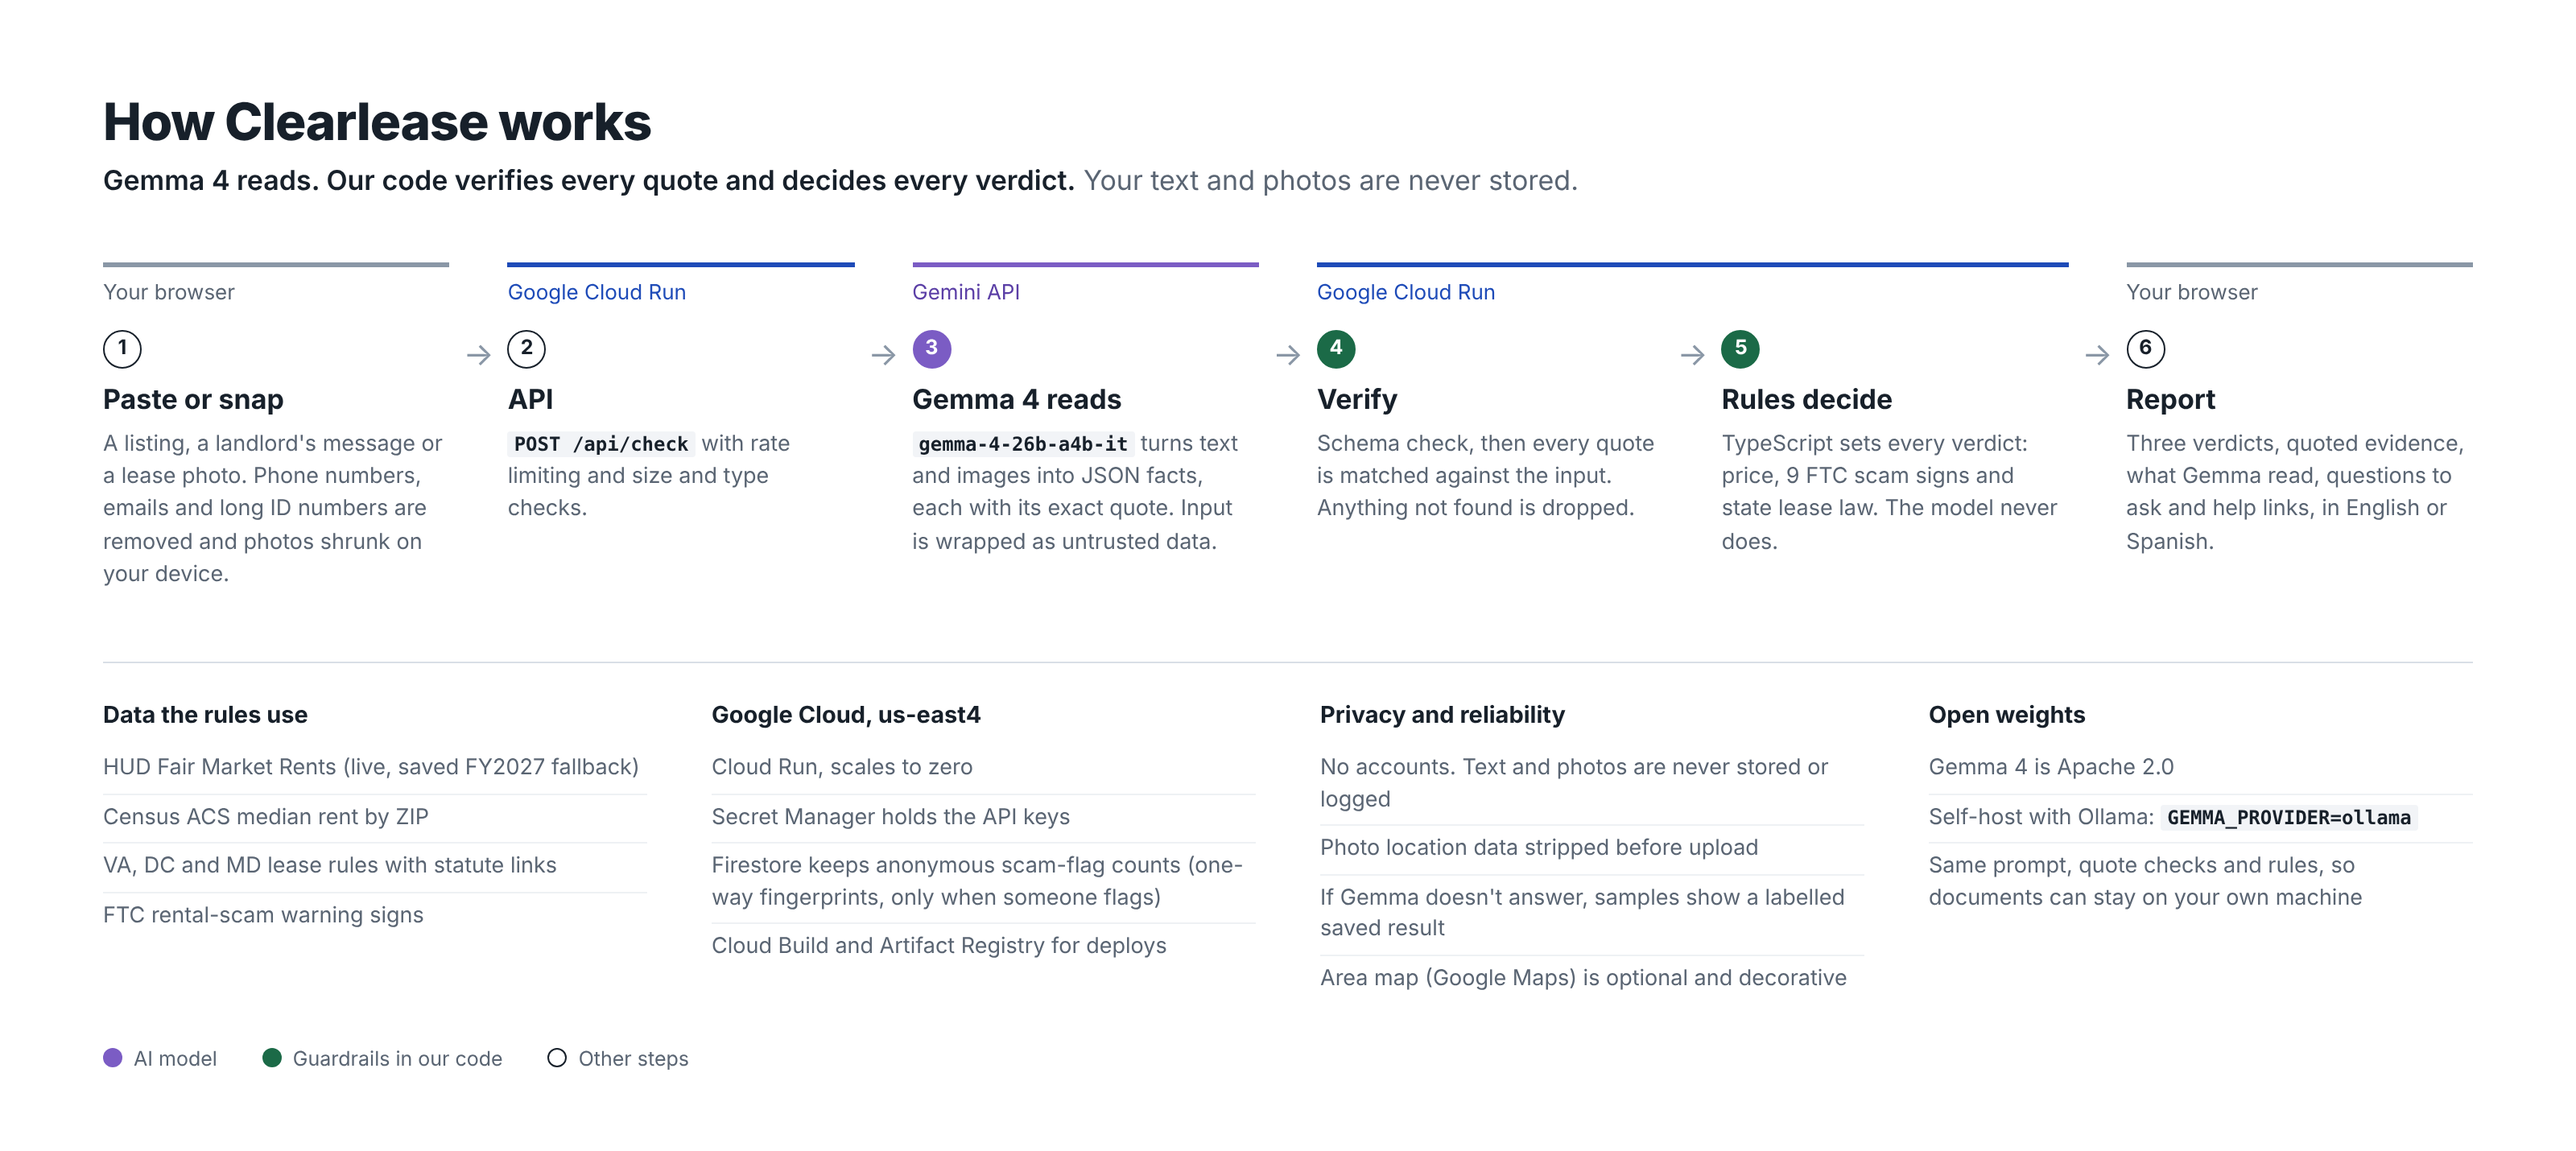
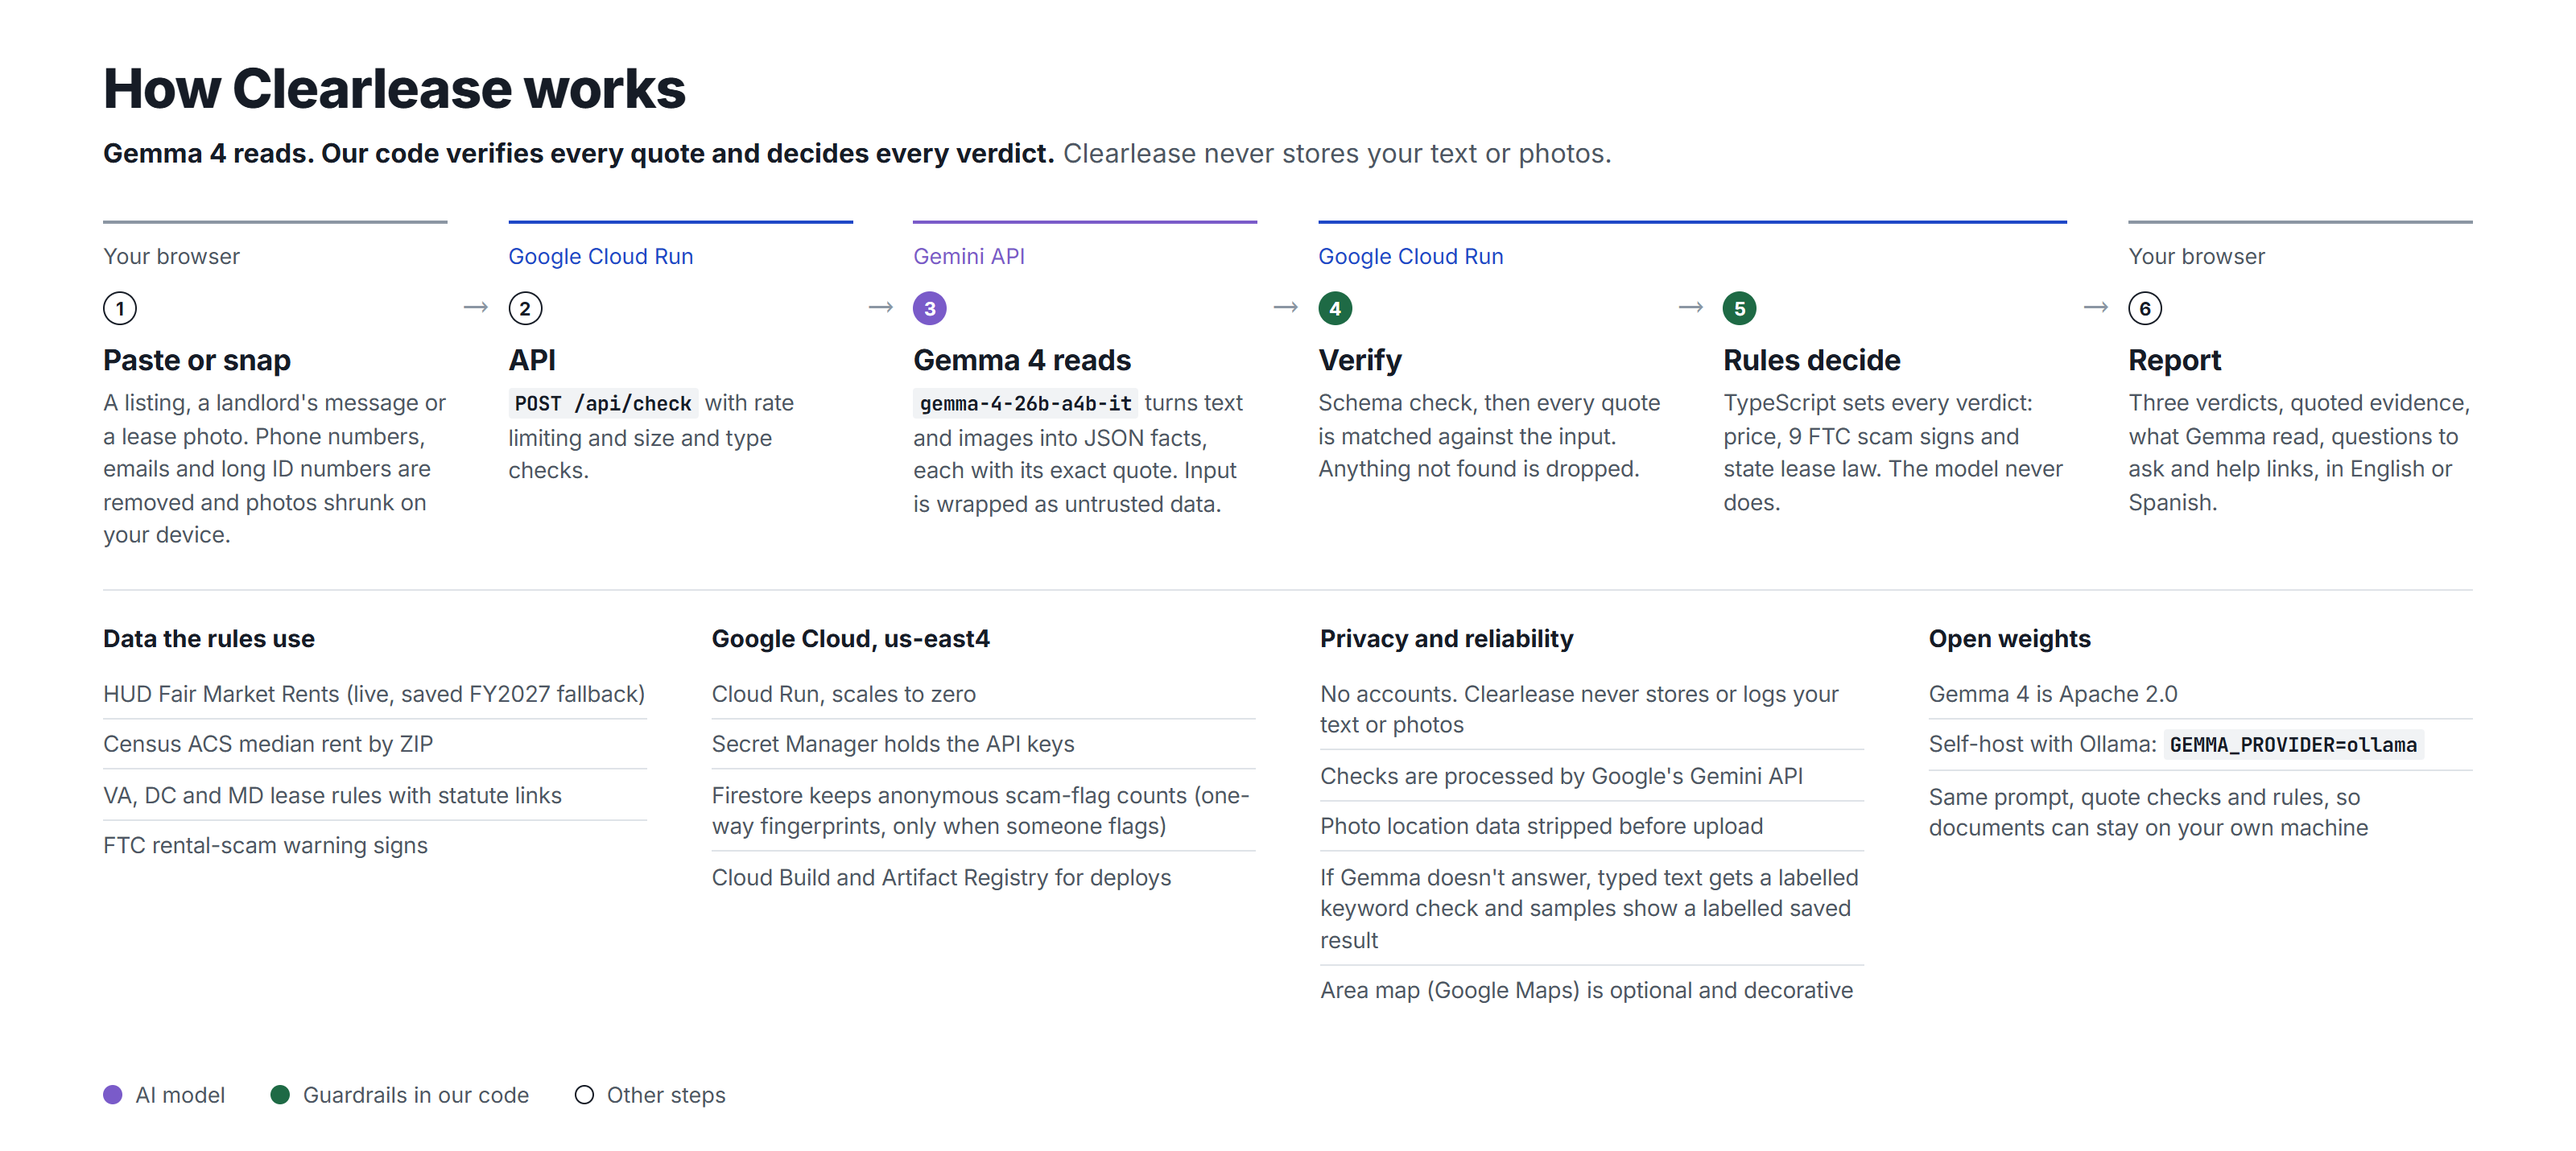
docs: architecture diagram from source, README polish
Part A (diagram):
- Verified "Photo location data stripped before upload": a JPEG with EXIF
  GPS tags uploaded through the app's own path (prepareImage canvas
  re-encode) reaches /api/check with no EXIF/GPS (only an ICC profile)
- New subtitle; privacy column: Clearlease never stores or logs your text
  or photos, checks are processed by Google's Gemini API, keyword check +
  labelled saved result when Gemma doesn't answer
- The PNG had no source; added docs/diagram/architecture.html and
  scripts/render-architecture.mjs (same 3200x1430 size and style)

Part B (README):
- 160 unit tests (README, docs/setup.md)
- Drop the duplicate free-tier sentence from "Nothing stored"
- Injection detector also catches fake role/chat-template markup and the
  banner shows the whole injected line
- npm ci in "Run it locally"; repo map lists docs/diagram/

diff --git a/docs/diagram/architecture.html b/docs/diagram/architecture.html
@@ -1,0 +1,114 @@
+<!doctype html>
+<!-- Source of docs/architecture.png. Render with: node scripts/render-architecture.mjs (1600×715 CSS px at 2×). -->
+<html lang="en">
+<head>
+<meta charset="utf-8">
+<title>How Clearlease works</title>
+<link rel="preconnect" href="https://fonts.googleapis.com">
+<link href="https://fonts.googleapis.com/css2?family=Inter:wght@400;600;700;800&family=JetBrains+Mono:wght@700&display=block" rel="stylesheet">
+<style>
+  :root {
+    --ink: #161c26;
+    --soft: #4d5663;
+    --rule: #dfe3e8;
+    --grey: #8b96a3;
+    --blue: #1f48c7;
+    --purple: #7a5bc9;
+    --green: #1e6a45;
+  }
+  * { box-sizing: border-box; margin: 0; padding: 0; }
+  html, body { width: 1600px; height: 715px; background: #fff; }
+  body { font-family: Inter, system-ui, sans-serif; color: var(--ink); padding: 36px 64px 0; -webkit-font-smoothing: antialiased; }
+  h1 { font-size: 34px; font-weight: 800; letter-spacing: -0.02em; line-height: 1.1; }
+  .sub { margin-top: 12px; font-size: 16.5px; color: var(--soft); }
+  .sub b { color: var(--ink); font-weight: 700; }
+  code { font-family: "JetBrains Mono", ui-monospace, monospace; font-weight: 700; font-size: 12.5px; color: var(--ink); background: #f1f3f5; padding: 1px 4px; border-radius: 2px; }
+
+  .steps { margin-top: 32px; display: grid; grid-template-columns: repeat(6, 214px); column-gap: 37.6px; position: relative; }
+  .zone { border-top: 2.5px solid var(--grey); padding-top: 12px; font-size: 13.5px; color: var(--soft); }
+  .zone.blue { border-color: var(--blue); color: var(--blue); }
+  .zone.purple { border-color: var(--purple); color: var(--purple); }
+  .zone.span2 { grid-column: span 2; }
+  .step { position: relative; padding-top: 14px; }
+  .step + .step::before { content: "→"; position: absolute; left: -30px; top: 11px; color: var(--grey); font-size: 22px; line-height: 1; }
+  .num { width: 21px; height: 21px; border-radius: 50%; border: 1.5px solid var(--ink); display: grid; place-items: center; font-size: 11.5px; font-weight: 700; }
+  .num.ai { background: var(--purple); border-color: var(--purple); color: #fff; }
+  .num.guard { background: var(--green); border-color: var(--green); color: #fff; }
+  .step h2 { margin-top: 11px; font-size: 18px; font-weight: 700; letter-spacing: -0.01em; }
+  .step p { margin-top: 6px; font-size: 14px; line-height: 20.4px; letter-spacing: -0.012em; color: var(--soft); }
+
+  .notes { margin-top: 24px; border-top: 1px solid var(--rule); padding-top: 20px; display: grid; grid-template-columns: repeat(4, 338px); column-gap: 40px; }
+  .notes h3 { font-size: 15px; font-weight: 700; margin-bottom: 9px; }
+  .notes li { list-style: none; font-size: 14px; line-height: 19.5px; letter-spacing: -0.012em; color: var(--soft); padding: 5.5px 0; border-bottom: 1px solid var(--rule); }
+  .notes li:last-child { border-bottom: 0; }
+
+  .legend { position: absolute; left: 64px; top: 672px; display: flex; gap: 28px; font-size: 13.5px; color: var(--soft); align-items: center; }
+  .legend span { display: inline-flex; align-items: center; gap: 8px; }
+  .dot { width: 12px; height: 12px; border-radius: 50%; display: inline-block; }
+</style>
+</head>
+<body>
+  <h1>How Clearlease works</h1>
+  <p class="sub"><b>Gemma 4 reads. Our code verifies every quote and decides every verdict.</b> Clearlease never stores your text or photos.</p>
+
+  <div class="steps">
+    <div class="zone">Your browser</div>
+    <div class="zone blue">Google Cloud Run</div>
+    <div class="zone purple">Gemini API</div>
+    <div class="zone blue span2">Google Cloud Run</div>
+    <div class="zone">Your browser</div>
+
+    <div class="step"><div class="num">1</div><h2>Paste or snap</h2><p>A listing, a landlord's message or a lease photo. Phone numbers, emails and long ID numbers are removed and photos shrunk on your device.</p></div>
+    <div class="step"><div class="num">2</div><h2>API</h2><p><code>POST /api/check</code> with rate limiting and size and type checks.</p></div>
+    <div class="step"><div class="num ai">3</div><h2>Gemma 4 reads</h2><p><code>gemma-4-26b-a4b-it</code> turns text and images into JSON facts, each with its exact quote. Input is wrapped as untrusted data.</p></div>
+    <div class="step"><div class="num guard">4</div><h2>Verify</h2><p>Schema check, then every quote is matched against the input. Anything not found is dropped.</p></div>
+    <div class="step"><div class="num guard">5</div><h2>Rules decide</h2><p>TypeScript sets every verdict: price, 9 FTC scam signs and state lease law. The model never does.</p></div>
+    <div class="step"><div class="num">6</div><h2>Report</h2><p>Three verdicts, quoted evidence, what Gemma read, questions to ask and help links, in English or Spanish.</p></div>
+  </div>
+
+  <div class="notes">
+    <section>
+      <h3>Data the rules use</h3>
+      <ul>
+        <li>HUD Fair Market Rents (live, saved FY2027 fallback)</li>
+        <li>Census ACS median rent by ZIP</li>
+        <li>VA, DC and MD lease rules with statute links</li>
+        <li>FTC rental-scam warning signs</li>
+      </ul>
+    </section>
+    <section>
+      <h3>Google Cloud, us-east4</h3>
+      <ul>
+        <li>Cloud Run, scales to zero</li>
+        <li>Secret Manager holds the API keys</li>
+        <li>Firestore keeps anonymous scam-flag counts (one-way fingerprints, only when someone flags)</li>
+        <li>Cloud Build and Artifact Registry for deploys</li>
+      </ul>
+    </section>
+    <section>
+      <h3>Privacy and reliability</h3>
+      <ul>
+        <li>No accounts. Clearlease never stores or logs your text or photos</li>
+        <li>Checks are processed by Google's Gemini API</li>
+        <li>Photo location data stripped before upload</li>
+        <li>If Gemma doesn't answer, typed text gets a labelled keyword check and samples show a labelled saved result</li>
+        <li>Area map (Google Maps) is optional and decorative</li>
+      </ul>
+    </section>
+    <section>
+      <h3>Open weights</h3>
+      <ul>
+        <li>Gemma 4 is Apache 2.0</li>
+        <li>Self-host with Ollama: <code>GEMMA_PROVIDER=ollama</code></li>
+        <li>Same prompt, quote checks and rules, so documents can stay on your own machine</li>
+      </ul>
+    </section>
+  </div>
+
+  <div class="legend">
+    <span><i class="dot" style="background: var(--purple)"></i>AI model</span>
+    <span><i class="dot" style="background: var(--green)"></i>Guardrails in our code</span>
+    <span><i class="dot" style="border: 1.5px solid var(--ink)"></i>Other steps</span>
+  </div>
+</body>
+</html>

diff --git a/README.md b/README.md
@@ -58,8 +58,8 @@ The five samples: a Blacksburg sublet that wants Zelle before a viewing, a lease
 
 - **Gemma reads text and photos.** One Gemma 4 call per check (retried only on transient errors) turns a listing, a chat screenshot or a lease photo into strict JSON: rent, bedrooms, ZIP, payment methods, seven scam signals and lease clauses, each with a verbatim quote. It understands paraphrase and negation ("we never take wire transfers" is not a red flag). Details: [`docs/model.md`](docs/model.md).
 - **Every quote is verified.** A quote must appear in your text, or in Gemma's own transcript of your photo. Unmatched quotes are dropped and shown as "not counted", and extracted numbers must appear inside their quote.
-- **Rules decide.** Prices, thresholds and legal comparisons live in [`lib/rules/`](lib/rules), covered by 126 unit tests. The model never scores anything.
-- **Prompt-injection defense.** Your text is wrapped as delimited data, the system prompt is pinned, and output must pass a Zod schema or you get a safe error. A second, rule-based detector catches phrases like "ignore previous instructions". The injection sample shows the attack being ignored and counted as a red flag.
+- **Rules decide.** Prices, thresholds and legal comparisons live in [`lib/rules/`](lib/rules), covered by unit tests (160 in the suite). The model never scores anything.
+- **Prompt-injection defense.** Your text is wrapped as delimited data, the system prompt is pinned, and output must pass a Zod schema or you get a safe error. A second, rule-based detector catches phrases like "ignore previous instructions" and fake role or chat-template markup (`"role":"system"`, `<|im_start|>`, `<start_of_turn>`, `[INST]`, `<<SYS>>`), and the banner shows the whole injected line. The injection sample shows the attack being ignored and counted as a red flag.
 
 **Why the AI is necessary.** Listings and leases arrive as messy text, screenshots and phone photos, with paraphrased payment requests, misspellings, Spanish and disclaimers. Keyword rules can't read photos and misread negation: on our hard set, a keyword scan raised false alarms on 6 of 9 legitimate listings. Gemma 4 reads all of it into one quoted shape that code can check. If the model still fails after its retries, typed text gets a clearly labelled keyword-only check instead: the same rules run on keyword matches, the scam verdict is capped at "Some red flags" unless 3 or more keyword signals match, and a clean result is a neutral "None found by keywords", never the green "No red flags found". Photos still need the model.
 
@@ -90,7 +90,7 @@ More detail: [`docs/responsible-ai.md`](docs/responsible-ai.md).
 - **Grounded:** a flag counts only if its quote is found in what you gave us. The model never decides a price, score or legal question.
 - **Redaction:** before sending, the browser removes email addresses, phone numbers, SSN-format numbers and long ID or account numbers (10+ digits), per [`lib/client/redact.ts`](lib/client/redact.ts). It does not remove names, addresses or anything inside a photo, so the page asks you to cover those in photos.
 - **Who processes it:** checks are processed by Google's Gemini API. On Google's free tier, Google may use submitted text to improve its products. Don't paste personal information.
-- **Nothing stored:** your text and photos are never stored or logged. Firestore is written to only when someone flags a listing, and it keeps one-way fingerprints and counts. The page says that the free Gemini API tier may use inputs to improve Google's products.
+- **Nothing stored:** your text and photos are never stored or logged. Firestore is written to only when someone flags a listing, and it keeps one-way fingerprints and counts.
 - **Cheap isn't a crime:** low rent alone never makes Clearlease say "scam". Shared rooms, income-restricted units and sublets are often cheap, and those renters shouldn't be scared off.
 - **Abuse and cost guards:** a per-client rate limit (10 checks per minute by default, 30 on the deployed site), a 12,000-character text limit, an 8 MB image cap checked on the server too, and an image-type allowlist.
 - **Not legal advice:** every report says so and links to free help for the renter's state.
@@ -110,10 +110,10 @@ Requires Node 20+. Without keys it runs in demo mode on the five samples; for li
 
 ```bash
 git clone https://github.com/AshwinNimmala-21/gdg-team_error-404.git && cd gdg-team_error-404
-npm install && cp .env.example .env && npm run dev     # http://localhost:3000
+npm ci && cp .env.example .env && npm run dev     # http://localhost:3000
 ```
 
-Checks: `npm test` (126 unit tests), `npm run lint`, `npm run build`, and `node scripts/e2e.mjs http://localhost:3000` for the five samples. Optional keys and the one-command deploy: [`docs/setup.md`](docs/setup.md). Cloud Run runbook: [`docs/DEPLOY.md`](docs/DEPLOY.md).
+Checks: `npm test` (160 unit tests), `npm run lint`, `npm run build`, and `node scripts/e2e.mjs http://localhost:3000` for the five samples and two typed injection inputs. Optional keys and the one-command deploy: [`docs/setup.md`](docs/setup.md). Cloud Run runbook: [`docs/DEPLOY.md`](docs/DEPLOY.md).
 
 ## APIs and data
 
@@ -138,6 +138,7 @@ lib/rules/           price, scam, lease, questions, quote verification (+ tests)
 lib/data/            HUD/Census data and lookups, ZIP areas, rule sheets, help links
 scripts/eval/        labelled eval sets, runner, frozen keyword baseline
 docs/                setup, deploy, model, evaluation, validation, accessibility, research
+docs/diagram/        source of docs/architecture.png (node scripts/render-architecture.mjs)
 docs/process/        hackathon working notes (see docs/process/README.md)
 ```
 

diff --git a/docs/setup.md b/docs/setup.md
@@ -24,7 +24,7 @@ Only **one key is required**: `GEMINI_API_KEY` (free from [aistudio.google.com/a
 Checked on Oct 25: a production build with only `GEMINI_API_KEY` set (the other four blanked) passed all 5 samples live (`node scripts/e2e.mjs`), showed saved figures, no counter and no map.
 
 ```bash
-npm test            # 126 unit tests (rules, grounding, redaction, injection, schema, pricing, leases, map)
+npm test            # 160 unit tests (rules, grounding, redaction, injection, schema, pricing, leases, map, keyword fallback)
 npm run lint
 npm run build && npm start              # production server (standalone, like Cloud Run)
 node scripts/e2e.mjs http://localhost:3000            # API check of the 5 samples
